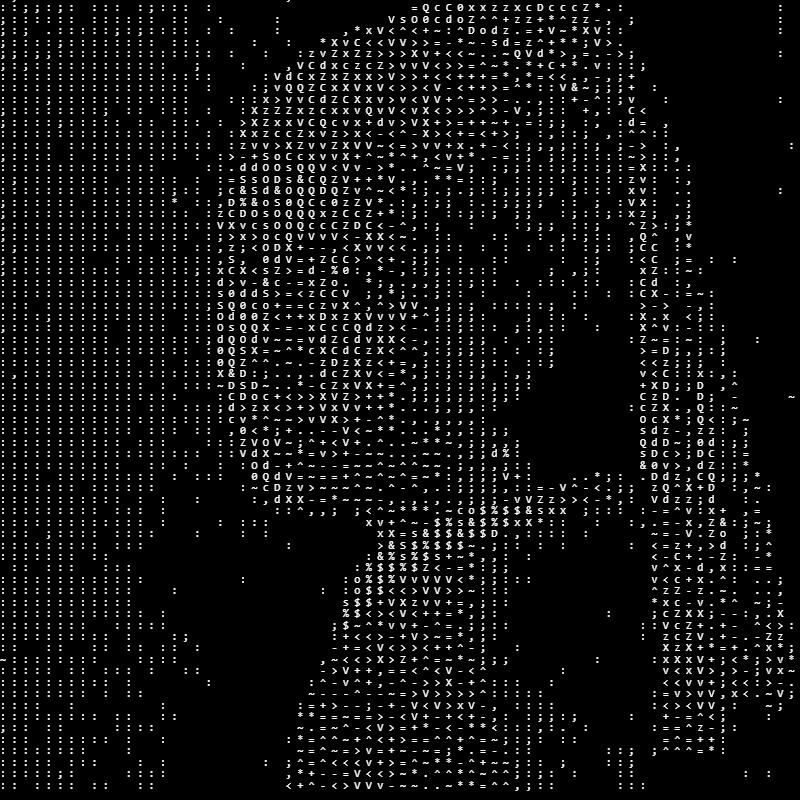
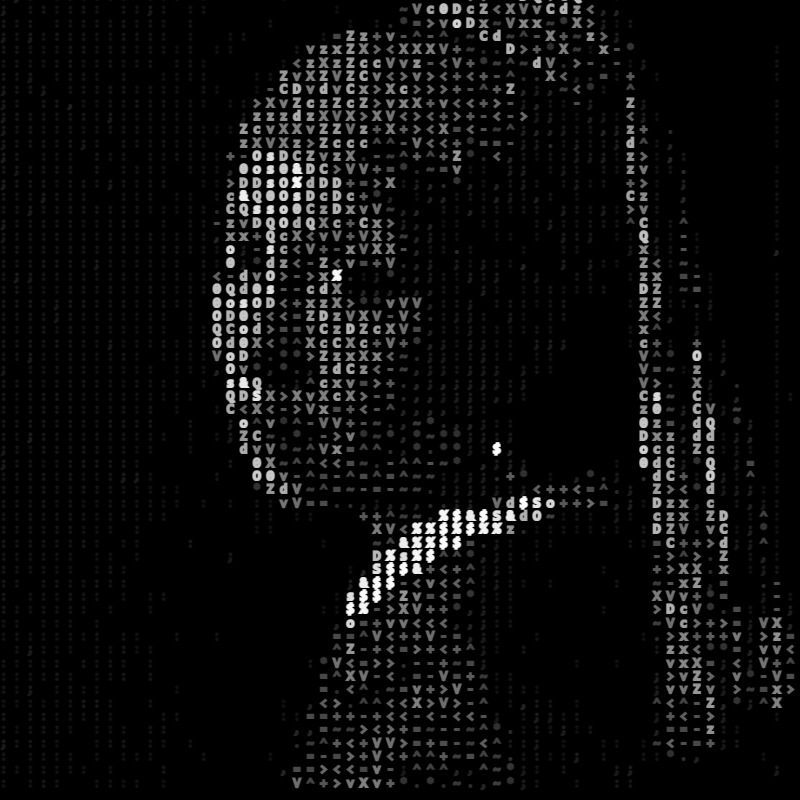
Add color so shapes are more visible

diff --git a/012 - ascii art/sketch.js b/012 - ascii art/sketch.js
@@ -36,19 +36,17 @@ let asciiPalette = [
 ];
 
 function preload() {
-	// img = loadImage("./image.jpg");
+	img = loadImage("./image.jpg");
 	// img = loadImage("./image2.jpg");
-	img = loadImage("./image3.jpg");
+	// img = loadImage("./image3.jpg");
 }
 
 function setup() {
 	createCanvas(img.width, img.height);
 
 	background(0);
-	fill(255);
-	stroke(100);
 
-	let tiles = 70;
+	let tiles = 60;
 	let tileWidth = width / tiles;
 	let tileHeight = height / tiles;
 
@@ -59,16 +57,26 @@ function setup() {
 			let x = col * tileWidth;
 			let y = row * tileHeight;
 
-			let pixel = img.get(x, y);
+			let pixelColor = img.get(x, y);
 
 			// Sum RGB values and divide by 3 to get pixel luminance
-			let luma = (pixel[0] + pixel[1] + pixel[2]) / 3;
+			let luma = (pixelColor[0] + pixelColor[1] + pixelColor[2]) / 3;
 
+			// Map luminance value to palette length to get the color index;
 			let index = floor(map(luma, 0, 255, 0, asciiPalette.length - 1));
+
 			// Ascii palette is sorted from big to small
 			// invert index so darker colors use smaller ascii characters
 			index = asciiPalette.length - index;
 			let ascii = asciiPalette[index];
+
+			// Greyscale mode
+			// fill(luma);
+			// stroke(luma);
+
+			// Color mode
+			fill(pixelColor);
+			stroke(pixelColor);
 
 			text(ascii, x, y);
 		}
